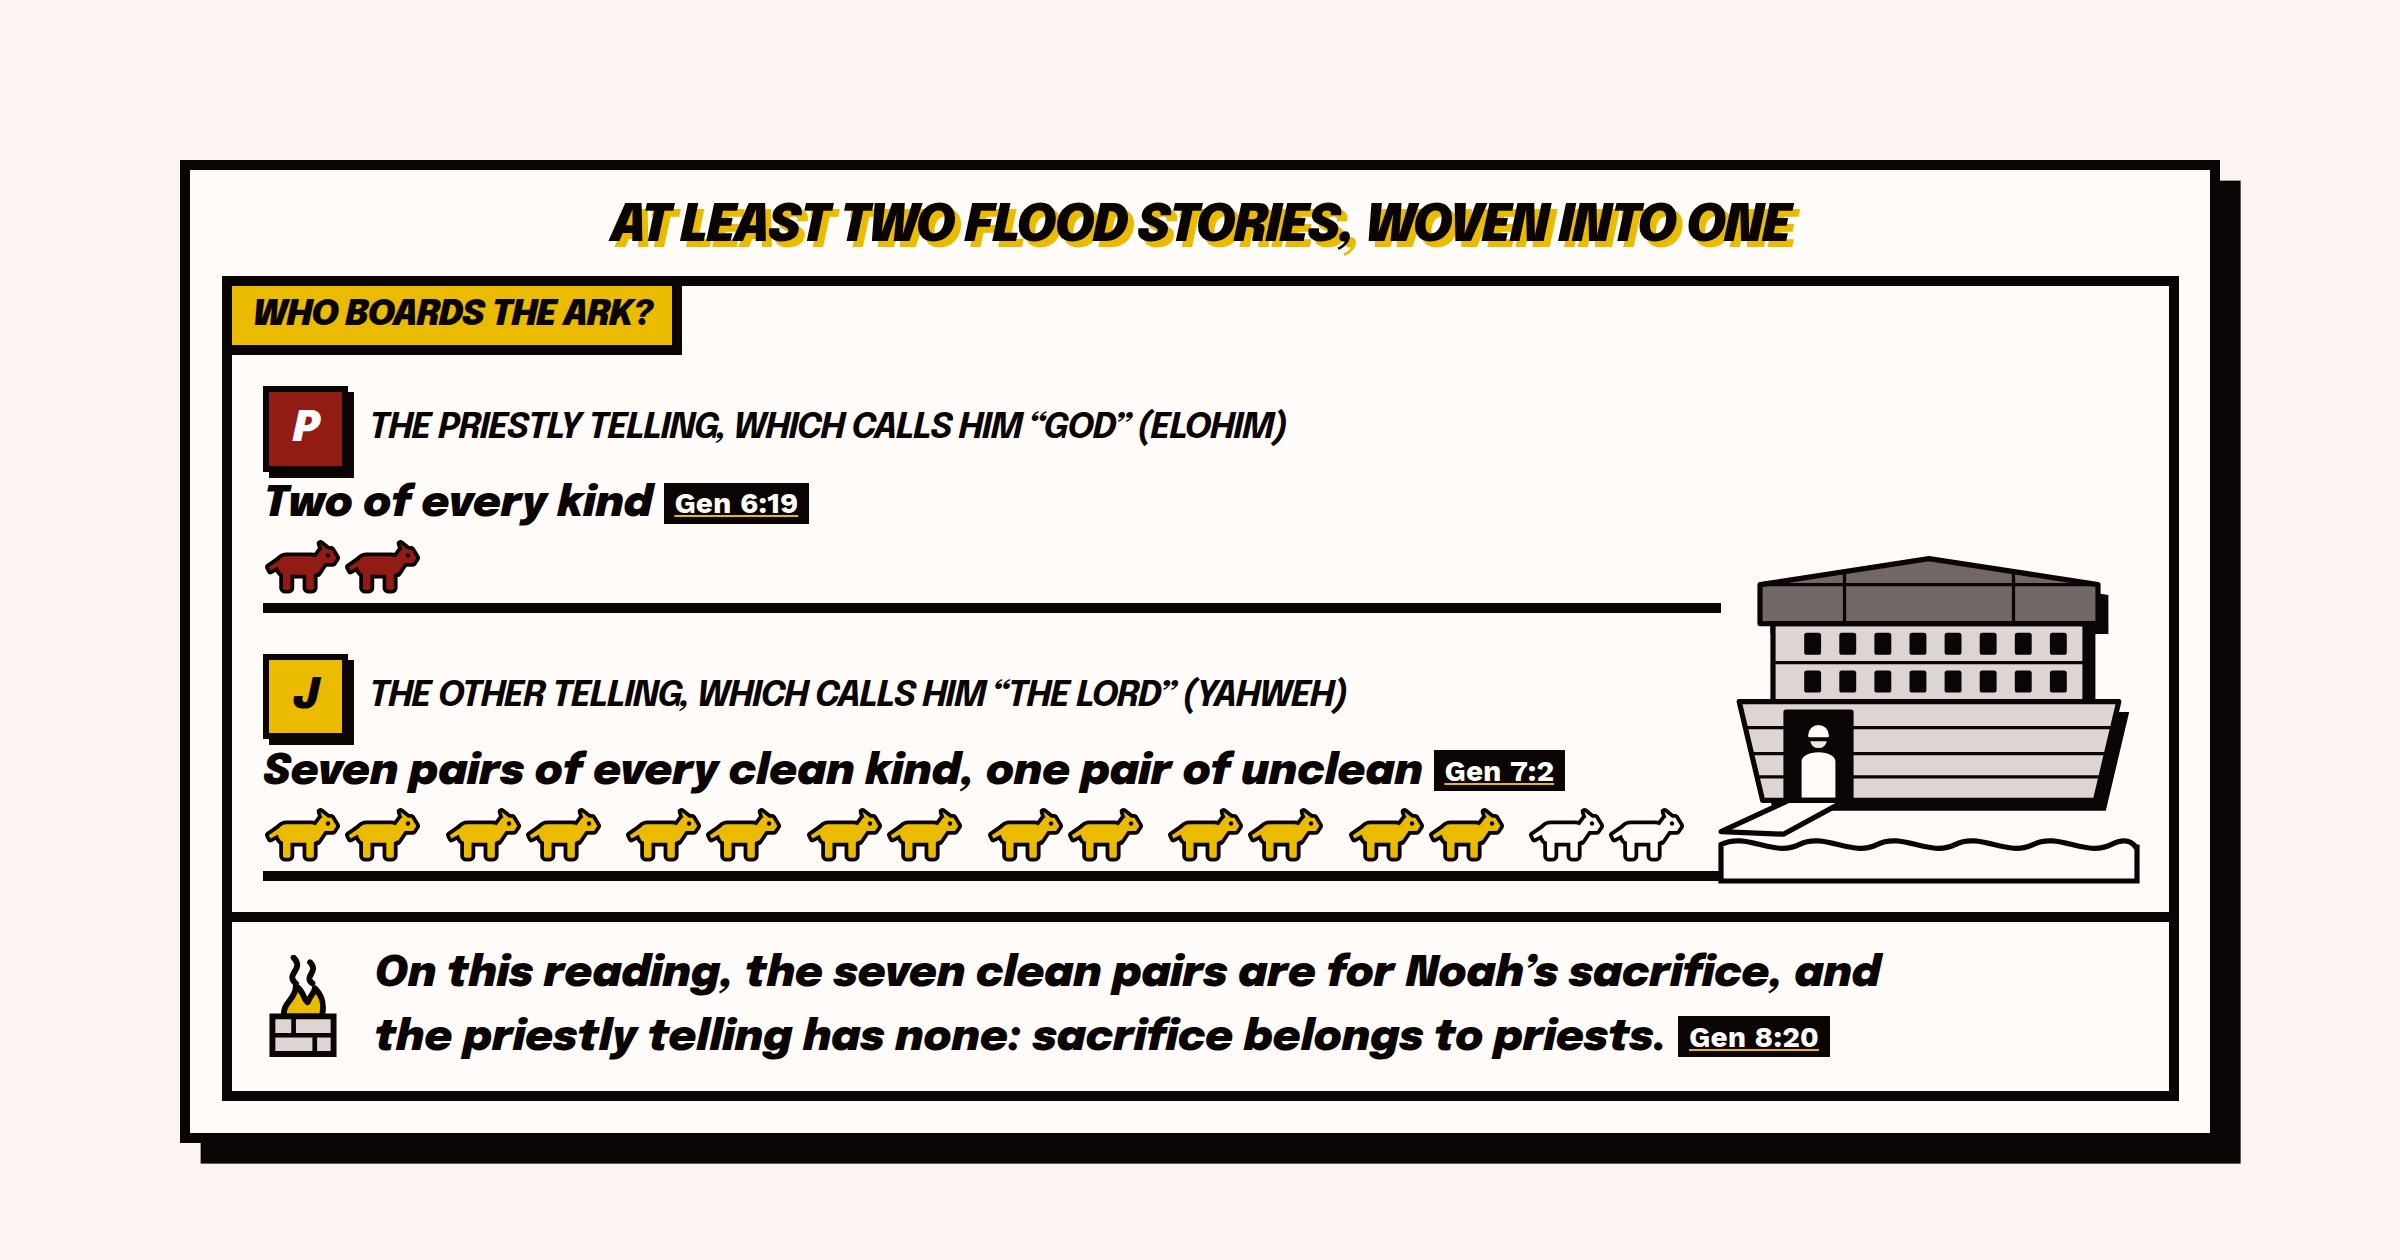
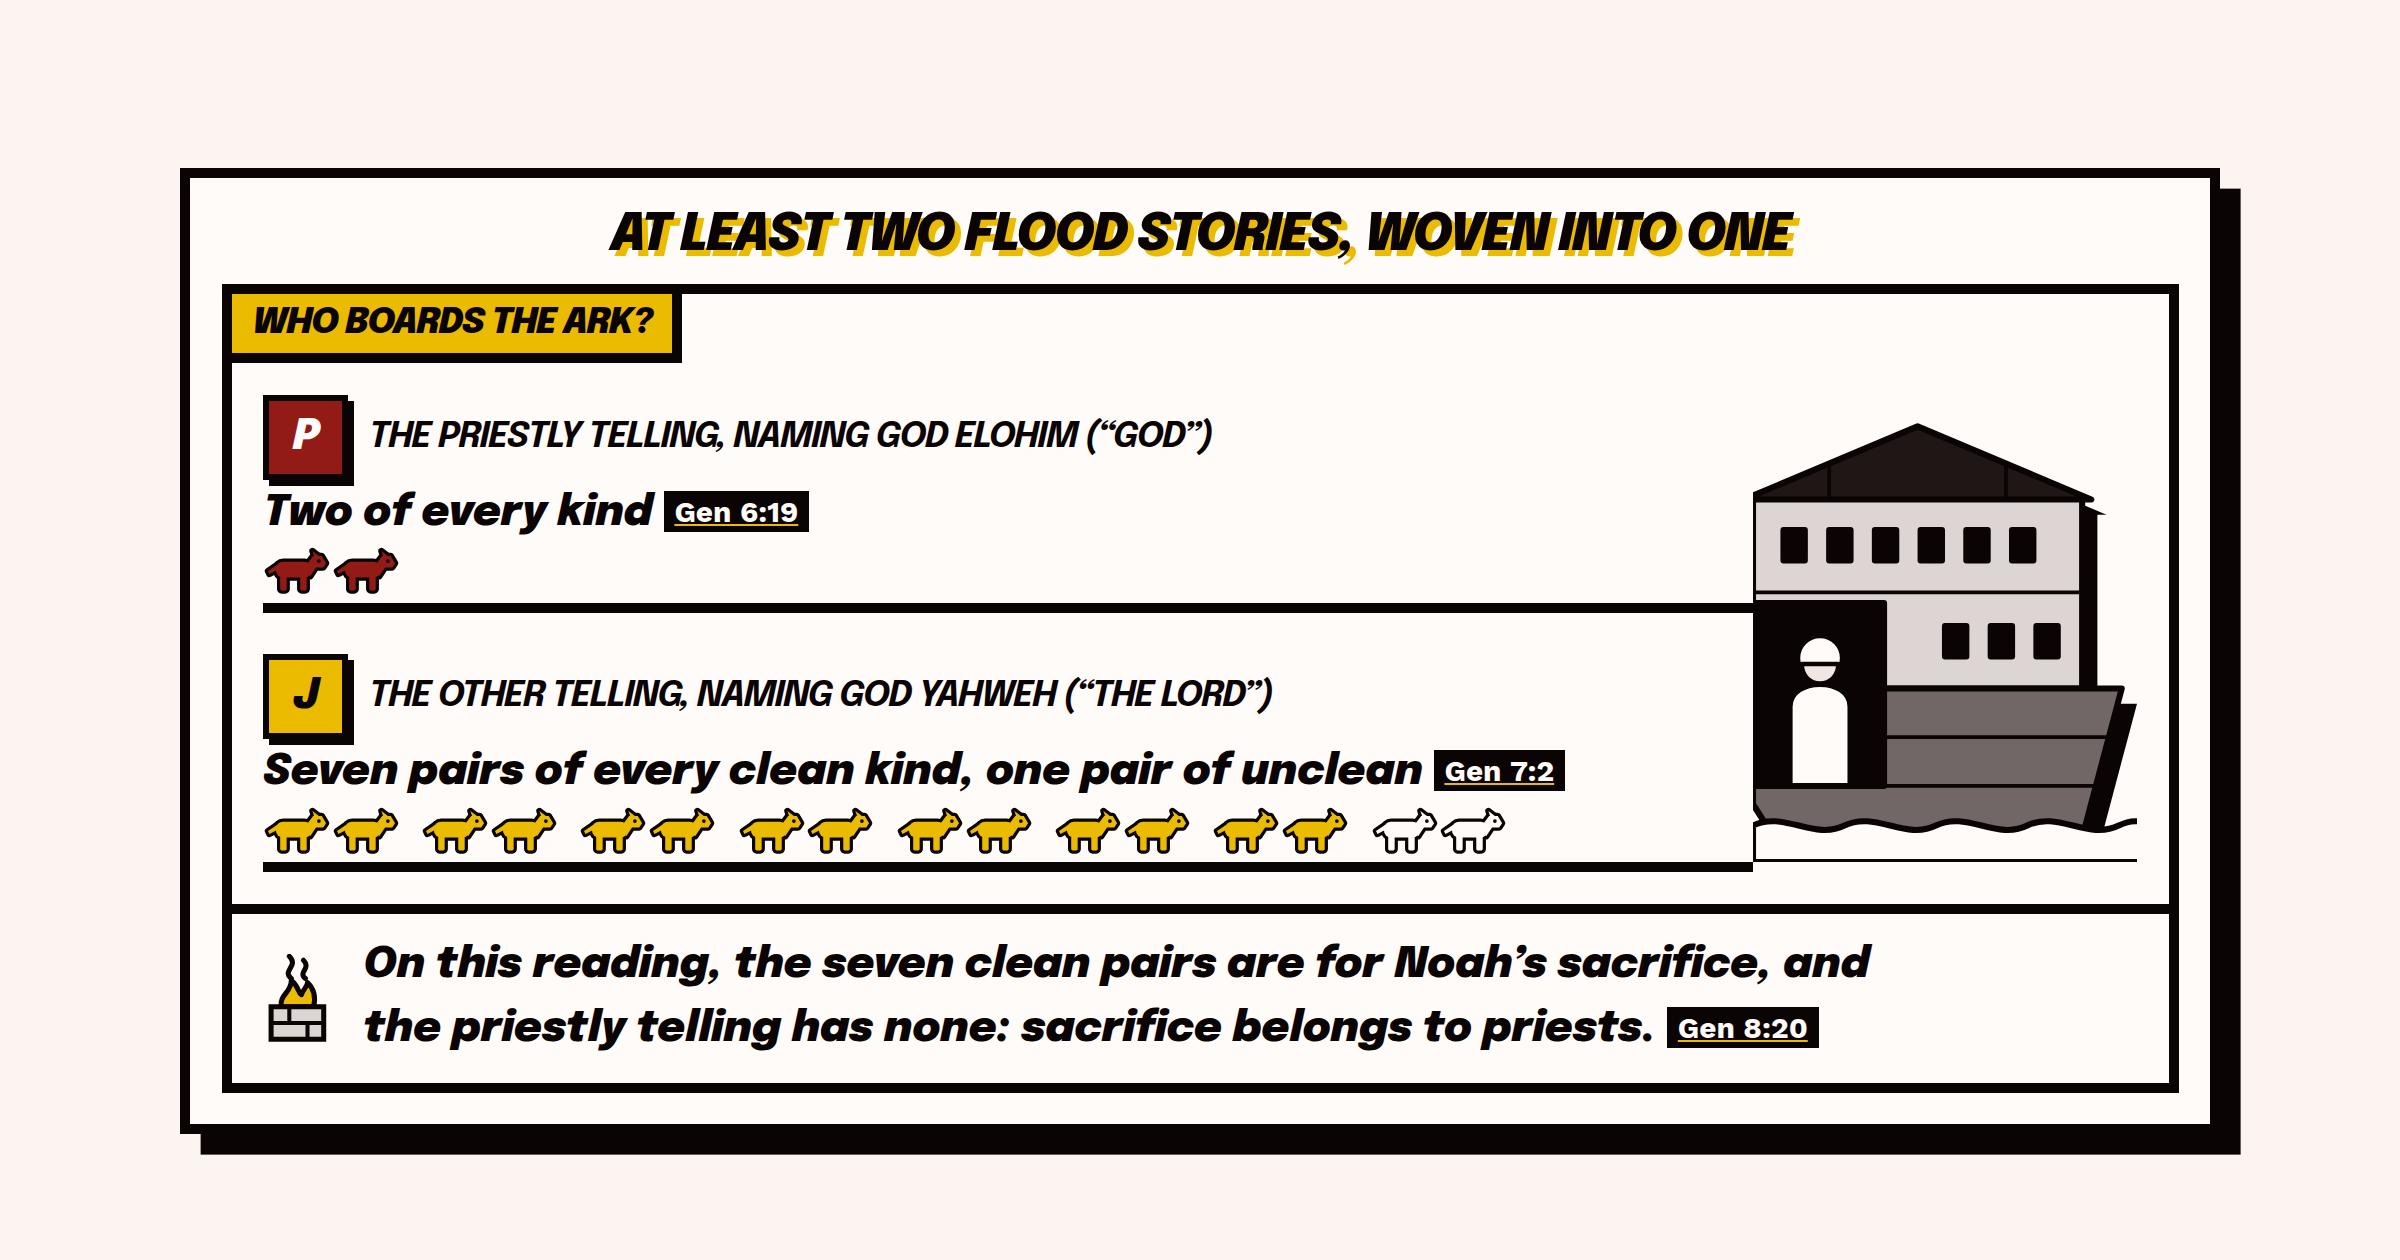
Noah's Ark infographic: taller ark both lines board; name lines reworded

Changed region(s): [[0.0625, 0.3405, 0.9375, 0.9286], [0.0625, 0.1238, 0.9375, 0.4952], [0.2812, 0.5262, 0.5625, 0.5881]]

diff --git a/hugo/layouts/partials/scholarship-custom/noahs-ark-and-the-flood.html b/hugo/layouts/partials/scholarship-custom/noahs-ark-and-the-flood.html
@@ -94,9 +94,7 @@
           <li class="noah-line noah-line--p">
             <h4 class="noah-line__who">
               <span class="noah-line__badge">P</span>
-              <span
-                >The priestly telling, which calls him <q>God</q> (Elohim)</span
-              >
+              <span>The priestly telling, naming God Elohim (<q>God</q>)</span>
             </h4>
             <p class="noah-line__count">
               Two of every kind
@@ -116,8 +114,7 @@
             <h4 class="noah-line__who">
               <span class="noah-line__badge">J</span>
               <span
-                >The other telling, which calls him
-                <q>the LORD</q> (Yahweh)</span
+                >The other telling, naming God Yahweh (<q>the LORD</q>)</span
               >
             </h4>
             <p class="noah-line__count">
@@ -144,47 +141,47 @@
             </ul>
           </li>
         </ol>
-        {{/* The ark of Gen 6:15–16: three decks, a roof and a door in its side. */}}
+        {{/* The ark of Gen 6:15–16: three decks, a roof and a door in its side. Its left wall is the viewBox edge, where both lines arrive. */}}
         <svg
           class="noah-board__ark"
-          viewBox="0 0 320 250"
+          viewBox="20 0 252 300"
+          preserveAspectRatio="xMinYMid meet"
           aria-hidden="true"
           focusable="false">
-          <g class="noah-ark__shadow" transform="translate(8 8)">
-            <path d="M30 22 160 2l130 20v30H30z" />
-            <path d="M14 112h292l-18 76H32z" />
-            <path d="M40 52h240v60H40z" />
+          <g class="noah-ark__shadow" transform="translate(10 10)">
+            <path d="M14 62 128 14l114 48z" />
+            <path d="M20 60h216v126H20z" />
+            <path d="M20 186h242l-26 98H34l-14-22z" />
           </g>
-          <path class="noah-ark__hull" d="M40 52h240v60H40z" />
-          <path class="noah-ark__roof" d="M30 52V22L160 2l130 20v30z" />
-          <path class="noah-ark__line" d="M30 22h260M95 12v40M225 12v40" />
-          <path class="noah-ark__hull" d="M14 112h292l-18 76H32z" />
-          <path
-            class="noah-ark__line"
-            d="M40 82h240M19 132h282M24 152h272M28 170h264" />
-          {{- range seq 0 7 }}
+          <path class="noah-ark__hull" d="M20 60h216v126H20z" />
+          <path class="noah-ark__keel" d="M20 186h242l-26 98H34l-14-22z" />
+          <path class="noah-ark__line" d="M20 123h216M20 218h234M20 250h226" />
+          <path class="noah-ark__roof" d="M14 62 128 14l114 48z" />
+          <path class="noah-ark__line" d="M70 38v24M186 38v24" />
+          {{- range seq 0 5 }}
             <rect
               class="noah-ark__window"
-              x="{{ add 66 (mul . 27) }}"
-              y="61"
-              width="9"
-              height="13" />
-            <rect
-              class="noah-ark__window"
-              x="{{ add 66 (mul . 27) }}"
-              y="90"
-              width="9"
-              height="13" />
+              x="{{ add 40 (mul . 30) }}"
+              y="82"
+              width="14"
+              height="20" />
           {{- end }}
-          {{/* The door in its side, open, with Noah standing in it. */}}
-          <path class="noah-ark__door" d="M50 120h50v68H50z" />
-          <path class="noah-ark__noah" d="M60 188v-30c0-12 30-12 30 0v30z" />
-          <circle class="noah-ark__noah" cx="75" cy="138" r="10" />
-          <path class="noah-ark__beard" d="M67 141c0 11 16 11 16 0z" />
-          <path class="noah-ark__ramp" d="M0 212 52 188h44L48 214z" />
+          {{- range seq 0 2 }}
+            <rect
+              class="noah-ark__window"
+              x="{{ add 146 (mul . 30) }}"
+              y="145"
+              width="14"
+              height="20" />
+          {{- end }}
+          {{/* The door, open, with Noah standing in it. */}}
+          <path class="noah-ark__door" d="M20 130h86v120H20z" />
+          <path class="noah-ark__noah" d="M44 250v-52c0-20 40-20 40 0v52z" />
+          <circle class="noah-ark__noah" cx="64" cy="166" r="15" />
+          <path class="noah-ark__beard" d="M52 170c0 17 24 17 24 0z" />
           <path
             class="noah-ark__sea"
-            d="M0 222c20-10 40 10 60 0s40 10 60 0 40 10 60 0 40 10 60 0 40 10 60 0 20 10 20 0v28H0z" />
+            d="M20 276c20-10 40 10 60 0s40 10 60 0 40 10 60 0 40 10 60 0 20 10 52 0v24H20z" />
         </svg>
       </div>
       <figcaption class="noah-board__caption">

diff --git a/hugo/assets/css/scholarship-custom/noahs-ark-and-the-flood.css b/hugo/assets/css/scholarship-custom/noahs-ark-and-the-flood.css
@@ -145,7 +145,6 @@
 .noah-board__ark {
   inline-size: min(100%, 18rem);
   justify-self: center;
-  overflow: visible;
 }
 
 .noah-ark__shadow {
@@ -168,8 +167,15 @@
   fill: var(--noah-stone);
 }
 
-.noah-ark__roof {
+.noah-ark__keel {
   fill: var(--tan-500);
+  stroke: var(--noah-ink);
+  stroke-linejoin: round;
+  stroke-width: 4;
+}
+
+.noah-ark__roof {
+  fill: var(--tan-700);
 }
 
 .noah-ark__line {
@@ -380,9 +386,10 @@
   }
 
   .noah-board__stage {
-    align-items: end;
+    align-items: center;
+    /* No gap: the gangways run all the way to the ark's wall. */
     column-gap: 0;
-    grid-template-columns: minmax(0, 1fr) 13rem;
+    grid-template-columns: minmax(0, 1fr) 15rem;
   }
 
   .noah-board__ark {
@@ -396,13 +403,13 @@
 
 /* The poster: smaller units and tighter gaps on the 1080 by 1350 canvas. */
 .scholarship-share:target .noah-board {
-  --noah-unit: 2.35rem;
+  --noah-unit: 2.2rem;
   --noah-drop: 0.8rem;
-  --noah-bird: 5.5rem;
+  --noah-bird: 6rem;
 }
 
 .scholarship-share:target .noah-board__stage {
-  grid-template-columns: minmax(0, 1fr) 11.5rem;
+  grid-template-columns: minmax(0, 1fr) 14rem;
 }
 
 .scholarship-share:target .noah-board__page {
@@ -417,7 +424,11 @@
 
 /* The card: the boarding scene alone, under the headline. */
 .scholarship-share:has(#share-card:target) .noah-board {
-  --noah-unit: 2.5rem;
+  --noah-unit: 2.15rem;
+}
+
+.scholarship-share:has(#share-card:target) .noah-board__stage {
+  grid-template-columns: minmax(0, 1fr) 12rem;
 }
 
 .scholarship-share:has(#share-card:target) .noah-board__page {
